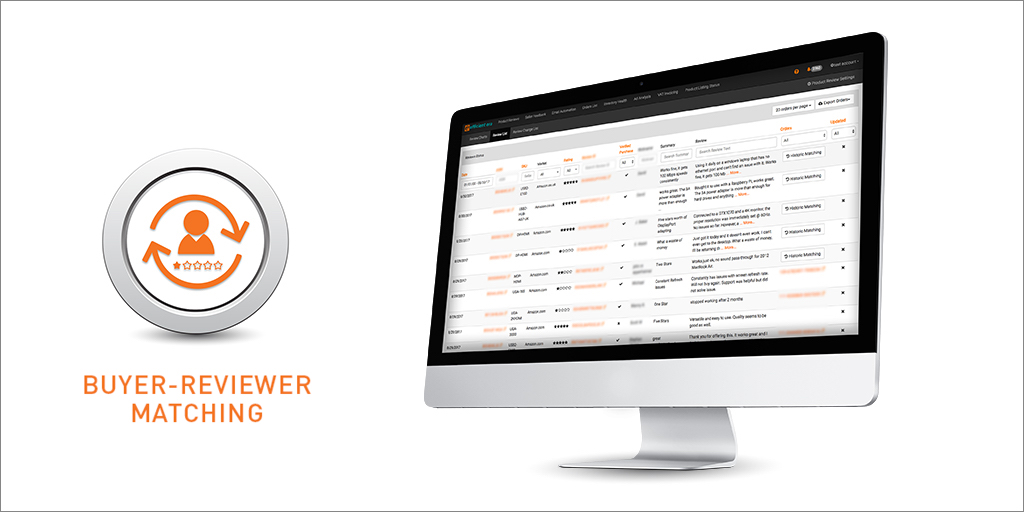
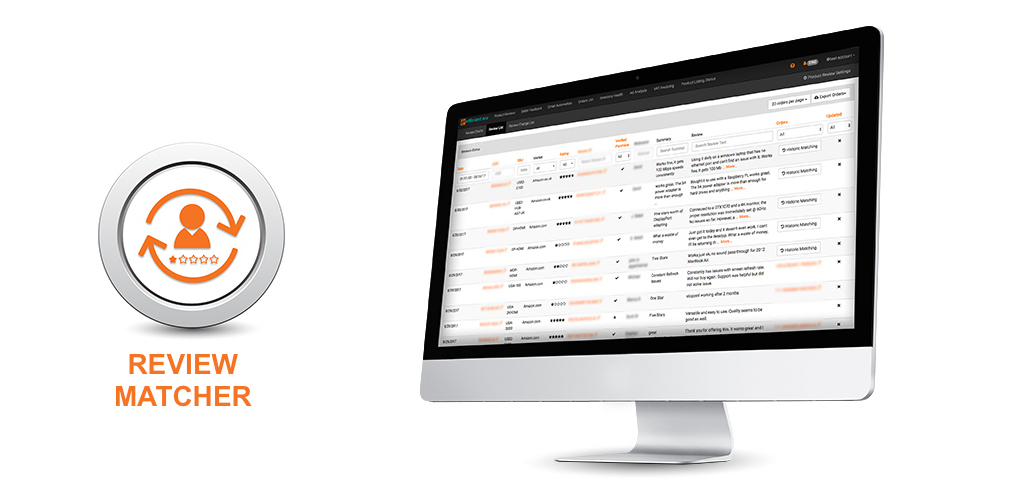
Redesign of main page Redesign of tool description page - /pages/feedback

diff --git a/content/pages/feedback.html b/content/pages/feedback.html
@@ -1,31 +1,169 @@
 <html>
 <head>
-    <title>Review Monitor</title>
+    <title>Review Matcher</title>
     <meta name="save_as" content="pages/feedback/index.html" />
     <meta name="no_well" content="true" />
+    <style>
+    .container-fluid.full-width {
+            padding-left: 0!important;
+            padding-right: 0!important;
+            overflow-x: hidden;
+        }
+        .row.row-no-gutter {
+            margin: 0
+        }
+        .row.row-no-gutter [class*="col-"] {
+            padding: 0
+        }
+        .img-full-width {
+            width: 100.5%;
+            height: auto;
+        }
+        .has-inner .row.row-no-gutter {
+            margin-left: -10px;
+            margin-right: -10px;
+        }
+        .row.row-no-gutter .inner {
+            padding-left: 10px;
+            padding-right: 10px;
+        }
+        .container-fluid {
+            padding-right:0!important;
+            padding-left:0!important;
+            margin-right:auto;
+            margin-left:auto
+         }
+
+
+
+    </style>
 </head>
 
-{<!--            <div class="col-md-8 col-md-offset-2 centered">#}-->
 
 <body>
-<div class="row vcenter">
 
-    <div class="col-md-8">
-        <p>
-        <img src="/images/pages/ReviewMonitoring.jpg"  class="img-thumbnail" alt="Buyer-Review Matching">
-        <!--<img src="/images/pages/b-r.png"  class="img-thumbnail" alt="Buyer-Review Matching" >-->
+    <div class="row">
+    <div class="col-lg-12">
+        <p>Reviews are, by far, the most important social proof of your product.
+        When a buyer leaves a negative review, you want to quickly connect with them and help out.
+        We provide accurate buyer-reviewer matching, including for anonymous 'Amazon Customers'.
+        Our Review Monitor notifies you about reviews and feedback.
+        At any time, you can search all of your reviews within the our Data Warehouse. </p>
+
+        <p><strong style="color: darkorange">Update</strong>: Efficient Era's buyer-review matching is back!
+            We can once again match your
+            reviews to buyers, after the changes Amazon made it their pages on October 26th, 2017.
+            We are also aware that this is not likely to be a permanent solution.
+            Amazon’s recent changes to their web pages has convinced us that they could make changes to
+            their pages and services at any time. While this might be a recurring theme, we are
+            committed to evolving and finding ways to help you connect the dots and fill in the gaps
+            that Amazon leaves behind. We want our tools to make it easy for you as a seller,
+            to operate at maximum efficiency.
+
+            As a leader in the space of buyer-review matching, we are committed to continue bringing you
+            the <strong><i>most reliable</i></strong> solutions for your review matching needs.
+        </p>
+    </div>
+    </div>
+
+    <div class="row">
+        <div class="col-lg-8 col-lg-offset-2">
+            <div class="row">
+                <img src="/images/pages/buyerMatchingBanner.jpg" width="100%" alt="buyer-reviewer matching, Tools for Amazon Sellers, Amazon Seller Tools">
+            </div>
+    </div>
+
+    <div class="row">
+    <div class="col-lg-4 col-lg-offset-2">
+                 <p>
+                            <ul class="fa-ul">
+                                <li class=""><i class="fa-li fa fa-check-square" style="color: darkorange"></i><span style="color:#009999; font-weight: 600"><strong>Automatic Buyer-Reviewer Matching</strong></span></li>
+                            <p>We can accurately match your reviews to buyer IDs for verified purchases made from your seller account
+                            if you provide us with Seller Central credentials. But even in the absence of Seller Central credentials,
+                            we can still match them with about 35% accuracy. All your reviews can be searched, filtered and exported.
+                            </p>
+
+                            <li class=""><i class="fa-li fa fa-check-square" style="color: darkorange"></i><span style="color:#009999; font-weight: 600"><strong>Review Alerts</strong></span></li>
+                            <p>
+                            You don't want to miss knowing when a review was posted. This is especially true of negative reviews.
+                                Set up an alert with a rule to either send yourself a mail for each review or as a daily digest.
+                                You can also set up alerts for multiple emails, even separate ones for positive and negative reviews.
+
+                            </p>
+
+                            <li class=""><i class="fa-li fa fa-check-square" style="color: darkorange"></i><span style="color:#009999; font-weight: 600"><strong>Review Changes</strong></span></li>
+                            <p>
+                            If you are reaching out to buyers that leave negative reviews to help them resolve their issues
+                                with your products, chances are they might change their rating or review text. You know that it would be
+                                nearly impossible to keep track of these changes manually. Our Review Change List helps keep track of review changes automatically for you.
+                                We also email you when someone changed their review.
+                            </p>
+                            </ul>
+                        </p>
+    </div>
+    <div class="col-lg-4">
+                 <p>
+                            <ul class="fa-ul">
+                            <li class=""><i class="fa-li fa fa-check-square" style="color: darkorange"></i><span style="color:#009999; font-weight: 600"><strong>Order Lookup</strong></span></li>
+                            <p>
+                            There are two ways to look up your order matches. If we are able to match a review for you the order number shows up in the Review List.
+                            If not, you can still trace them manually via the Orders List in our Data Warehouse.
+                            Click <a href="https://efficientera.com/blog/2017/11/heres-why-your-amazon-business-needs-a-data-warehouse.html" target="_blank" style="color: darkorange;">here</a>
+                            for ideas on how you can do this using wish lists and registries.
+
+                            </p>
+                            <li class=""><i class="fa-li fa fa-check-square" style="color: darkorange"></i><span style="color:#009999; font-weight: 600"><strong>Review Charts</strong></span></li>
+                            <p>
+                                While you won't need to see these every day, review charts are a useful analytical tool that provides visual cues
+                                to gauge the overall health of your reviews. We provide charts showing aggregate and cumulative values of your reviews and ratings over time.
+                                You can also see the breakdown of your reviews by geography.
+                            </p>
+
+                            <li  class=""><i class="fa-li fa fa-check-square" style="color: darkorange"></i><span style="color:#009999; font-weight: 600"><strong>Seller Feedback</strong></span></li>
+                            <p>
+                            While Seller Feedback is different from product reviews, a lot of buyers confuse the two and leave product
+                                related feedback instead. Our seller feedback list is a searchable repository of all your seller feedback.
+                                We are provide automatic seller feedback response automation for positive or negative ratings.
+
+                            </p>
+                            </ul>
+                        </p>
+
+
+    </div>
+    </div>
+
+    <div>
+        <br></br>
+    </div>
+
+    <div class="jumbotron">
+        <p>Ready to try out Efficient Era? Note, that Review Matcher is only one of our many sought-after tools. Once you
+            sign up for your 30-day trial period, you can unleash the full functionality of all our tools. Our scalable
+            pricing model makes us an attractive choice for both small and large sellers. Use our pricing calculator to to see how
+            affordable Efficient Era is. More details are
+            <a href="https://efficientera.com/pricing/" target="_blank" style="color: darkorange"> here </a>.
+
+            <br></br>Not ready yet and have more questions? Our Redmond based team is happy to help you with answers. Email us at support@efficientera.com.
 
         </p>
-        <h3> Product Review Monitoring</h3>
-        <p>Reviews are, by far, the most important social proof of your product. While positive reviews on your pages are great, you actually want to pay more attention to the negative ones so you can quickly post a public response to manage your reputation. Get email notifications for Reviews and Feedback. Analyze charts to show your performance. Search all of your reviews and feedback within our Data Warehouse.</p>
-            <p><strong style="color: darkorange">Update</strong>: Efficient Era's buyer-review matching is back!
-                We can once again match your
-                reviews to buyers, after the changes Amazon made it their pages on October 26th, 2017.
-                Although our new tool works in a limited capacity for now, this is only just the beginning.
-                In the coming weeks and months we will be making rapid changes to update our algorithm.
-                As a leader in the space of buyer-review matching, we are committed to continue bringing you
-                the <strong><i>most reliable</i></strong> solutions for your review matching needs.
+
+    </div>
+
+
+<!--        <p>
+            <img src="/images/pages/ReviewMonitoring.jpg"  alt="Buyer-Review Matching" style="box-shadow: 0px; border: 0px; width: 50%">
         </p>
+-->
+
+
+
+
+
+
+
+
+
 
  <!--
 
@@ -118,33 +256,52 @@
                     <img src="/images/pages/historicReviewMatching.png" class="img-thumbnail" alt="Buyer-Review Matching" style="width: 100%">
                 </p>
 -->
-
+<!--
+    <div class="col-lg-8 col-lg-offset-2">
         <div class="page-header">
-        <h4>Product Review Alerts : Notifications in Your Inbox</h4>
+                <h3> Review Alerts : Notifications in Your Inbox</h3>
         </div>
+
+
+    <div class="col-lg-12">
+
+        <img src="/images/pages/review_notification2.png" class="pull-left" alt="Buyer-Review Matching" style="width: 50%; padding-right: 20px; padding-bottom: 20px">
         <p>Efficient Era will keep you up-to-date via email each time you receive a new review.
             You could choose to send negative review notifications to a separate email address
             for more careful handling. Our email based Product Review alerts come with embedded
             links to reviews. Clicking on the review link (see image) takes you
             to the actual customer review page on Amazon.
-
         <p>
-        <img src="/images/pages/review_notification.png" class="img-thumbnail" alt="Buyer-Review Matching" style="width: 60%">
-        </p>
+    </div>
 
 
         <div class="page-header">
-        <h4>Review Charts : A Visual Assessment of Product Reviews</h4>
+          <h3>Review Changes : Monitor Changes in Reviews or Ratings</h3>
+        </div>
+            <div class="col-lg-12">
+            <img src="/images/pages/Review Change List.png" class="pull-right animated" class="img-thumbnail" style="padding-left;: 20px; width: 50%" alt="Buyer Reviewer Matching">
+            <p>
+                Our Review Change List is a repository of changes that were made to your reviews. The changes could be
+                either on the rating or on the actual text of the review itself.
+            </p>
+            </div>
+
+        <div class="page-header">
+            <h3>Review Charts : A Visual Assessment of Product Reviews</h3>
         </div>
 
-        <p>Review Charts give you a bird's eye view of the reviews your product has received over a specified period of time.
-            Multiple powerful charts let you assess your performance over time in terms of average rating and review velocity.</p>
-        <img src="/images/pages/review-charts.png" class="img-thumbnail" alt="Buyer-Review Matching">
+        <div class="col-lg-12">
+            <img src="/images/pages/review-charts.png" class="pull-left" style="padding-right: 20px; width: 70%" padding="20px" alt="Buyer-Review Matching">
+            <p>Review Charts give you a bird's eye view of the reviews your product has received over a specified period of time.
+                Multiple powerful charts let you assess your performance over time in terms of average rating and review velocity.</p>
+
+        </div>
 
 
         <div class="page-header">
-          <H4>Review List: A Powerful Search Engine for Review Data</h4>
+          <h4>Review List: A Powerful Search Engine for Review Data</h4>
         </div>
+        <div class="col-lg-12">
 
             <p>Our powerful search engine lets you search your product reviews by any text or star ratings over a date range you specify.
                 Access your data on a large scale, or on a product- or geography-specific basis.</p>
@@ -153,24 +310,13 @@
                 Let's say you have a sneaking suspicion that most of your negative reviews lately are stemming from a
                 common problem. You can trace the cause by searching on some possible keywords.
                 Like here, we filtered our Review List on 1 star reviews and typed the word "broke" in the review search bar. We found a large number of reviews with this complaint: "Broken on arrival". Perhaps its time to tell your supplier to improve their packaging!</p>
-            <p>
-                <img src="/images/pages/buyer-order-matching1.png" class="img-thumbnail" alt="Buyer-Review Matching">
-            </p>
 
-        <div class="page-header">
-          <H4>Review Change List: Monitor Review Changes</h4>
-            </div>
-            <p>
-                Our Review Change List is a repository of changes that were made to your reviews. The changes could be
-                either on the rating or on the actual text of the review itself.
-            </p>
-            <p>
-                <img src="/images/pages/Review Change List.png" class="img-thumbnail" alt="Buyer Reviewer Matching">
-            </p>
+                <img src="/images/pages/buyer-order-matching1.png" class="pull-right" style="padding: 20px; width: 50%" class="img-thumbnail" alt="Buyer-Review Matching">
 
+        </div>
 
-    </div>
-</div>
+        -->
+
 
 
 

diff --git a/content/templates/index.html b/content/templates/index.html
@@ -29,7 +29,57 @@
                     </div>
                 </div>
 -->
+    <style>
+    .carousel-control.left, .carousel-control.right {
+        background-image: none
+    }
+    </style>
 
+    <div id="myCarousel" class="carousel slide" data-ride="carousel;" style="padding: 0px" }>
+
+
+  <!-- Indicators -->
+  <ol class="carousel-indicators">
+    <li data-target="#myCarousel" data-slide-to="0" class="active"></li>
+    <li data-target="#myCarousel" data-slide-to="1"></li>
+    <li data-target="#myCarousel" data-slide-to="2"></li>
+  </ol>
+
+  <!-- Wrapper for slides -->
+  <div class="carousel-inner">
+    <div class="item active">
+      <a href="https://app.efficientera.com/signup/" target="_blank"><img src="/images/pages/1.png" alt="Tools for Amazon Sellers"></a>
+    </div>
+
+    <div class="item">
+        <a href="https://efficientera.com/pages/feedback" target="_blank"><img src="/images/pages/2.png" alt="Buyer Reviewer Matching"></a>
+    </div>
+
+    <div class="item">
+        <a href="https://app.efficientera.com/signup/" target="_blank"><img src="/images/pages/3.png" alt="Tools for Amazon Sellers"></a>
+    </div>
+  </div>
+
+  <!-- Left and right controls -->
+  <a class="left carousel-control" href="#myCarousel" data-slide="prev">
+    <span class="glyphicon glyphicon-chevron-left"></span>
+    <span class="sr-only">Previous</span>
+  </a>
+  <a class="right carousel-control" href="#myCarousel" data-slide="next">
+    <span class="glyphicon glyphicon-chevron-right"></span>
+    <span class="sr-only">Next</span>
+  </a>
+</div>
+
+<div class="jumbotron" style="opacity: 50; background-color: #eeeeee; padding: 10px">
+  <div class="container" style="padding: 10px;  text-align: center">
+    <h1 style="color: black; line-height: 80%; font-weight: 900;">Efficient Era</h1>
+    <h2 style="padding: 0px; color:#009999; font-weight:900">Powerful Tools for Amazon Sellers</h2>
+  </div>
+</div>
+
+  <!--
+</div>
     <div class="row">
         <div class="col-sm-12 col-lg-12 text-center">
             <h1 style="color: #F47424; font-weight: 150">Powerful Tools for Amazon Sellers</h1>
@@ -38,12 +88,9 @@
                 <img class="center-block" width="18%" src="images/freetriallime.png" align="center">
                 </a>
                 <img class="center-block" src="images/EE_Banner_New_Small.jpg" width="60%" align="center" alt="Tools for Amazon Sellers Amazon Seller Tools">
-<!--                <img class="center-block" src="images/ee-cover-white.jpg" width="100%" align="center" alt="Tools for Amazon Sellers Amazon Seller Tools">-->
-
-
             <hr>
         </div>
-
+-->
 
         <div class="col-sm-12 col-lg-12">
             <h4 style="color: #0b0b0b; line-height: 150%">Build your brand and protect your brand on Amazon, with Efficient Era's powerful software.
@@ -64,12 +111,12 @@
                             <img class="img img-responsive " src="images/icons/Seller Feedback Alerts1.png" alt="Amazon Seller Feedback, Buyer-Review Matching ,Buyer-Reviewer Matching">
                         </div>
                         <div class="col-xs-10 col-sm-9">
-                        <h4>Review Monitor</h4>
+                        <h4>Review Matcher</h4>
                             <p>
                             Reviews are, by far, the most important social proof of your product.
                                 When a buyer leaves a negative review, you want
                                 to quickly connect with them and help out. We provide accurate
-                                <strong>buyer-reviewer matching</strong>, including for anonymous 'Amazon Customers'.
+                                <strong style="color: #009999">buyer-reviewer matching</strong>, including for anonymous 'Amazon Customers'.
                                 Our Review Monitor notifies you about
                                 reviews and feedback. At any time, you can search all
                                 of your reviews within the our Data Warehouse.
@@ -124,7 +171,7 @@
                                 Our Email Automator helps you trigger emails when a product is ordered,
                                 shipped or delivered. We make it easy to weave placeholders into your message to dynamically address the buyer by full name,
                                 refer to the product they bought and add links to leave reviews.
-                                Create eye-catching emails with our rich text editor or modify HTML code.
+                                Create eye-catching emails with our rich text editor or modify HTML.
 
                             </p>
 
